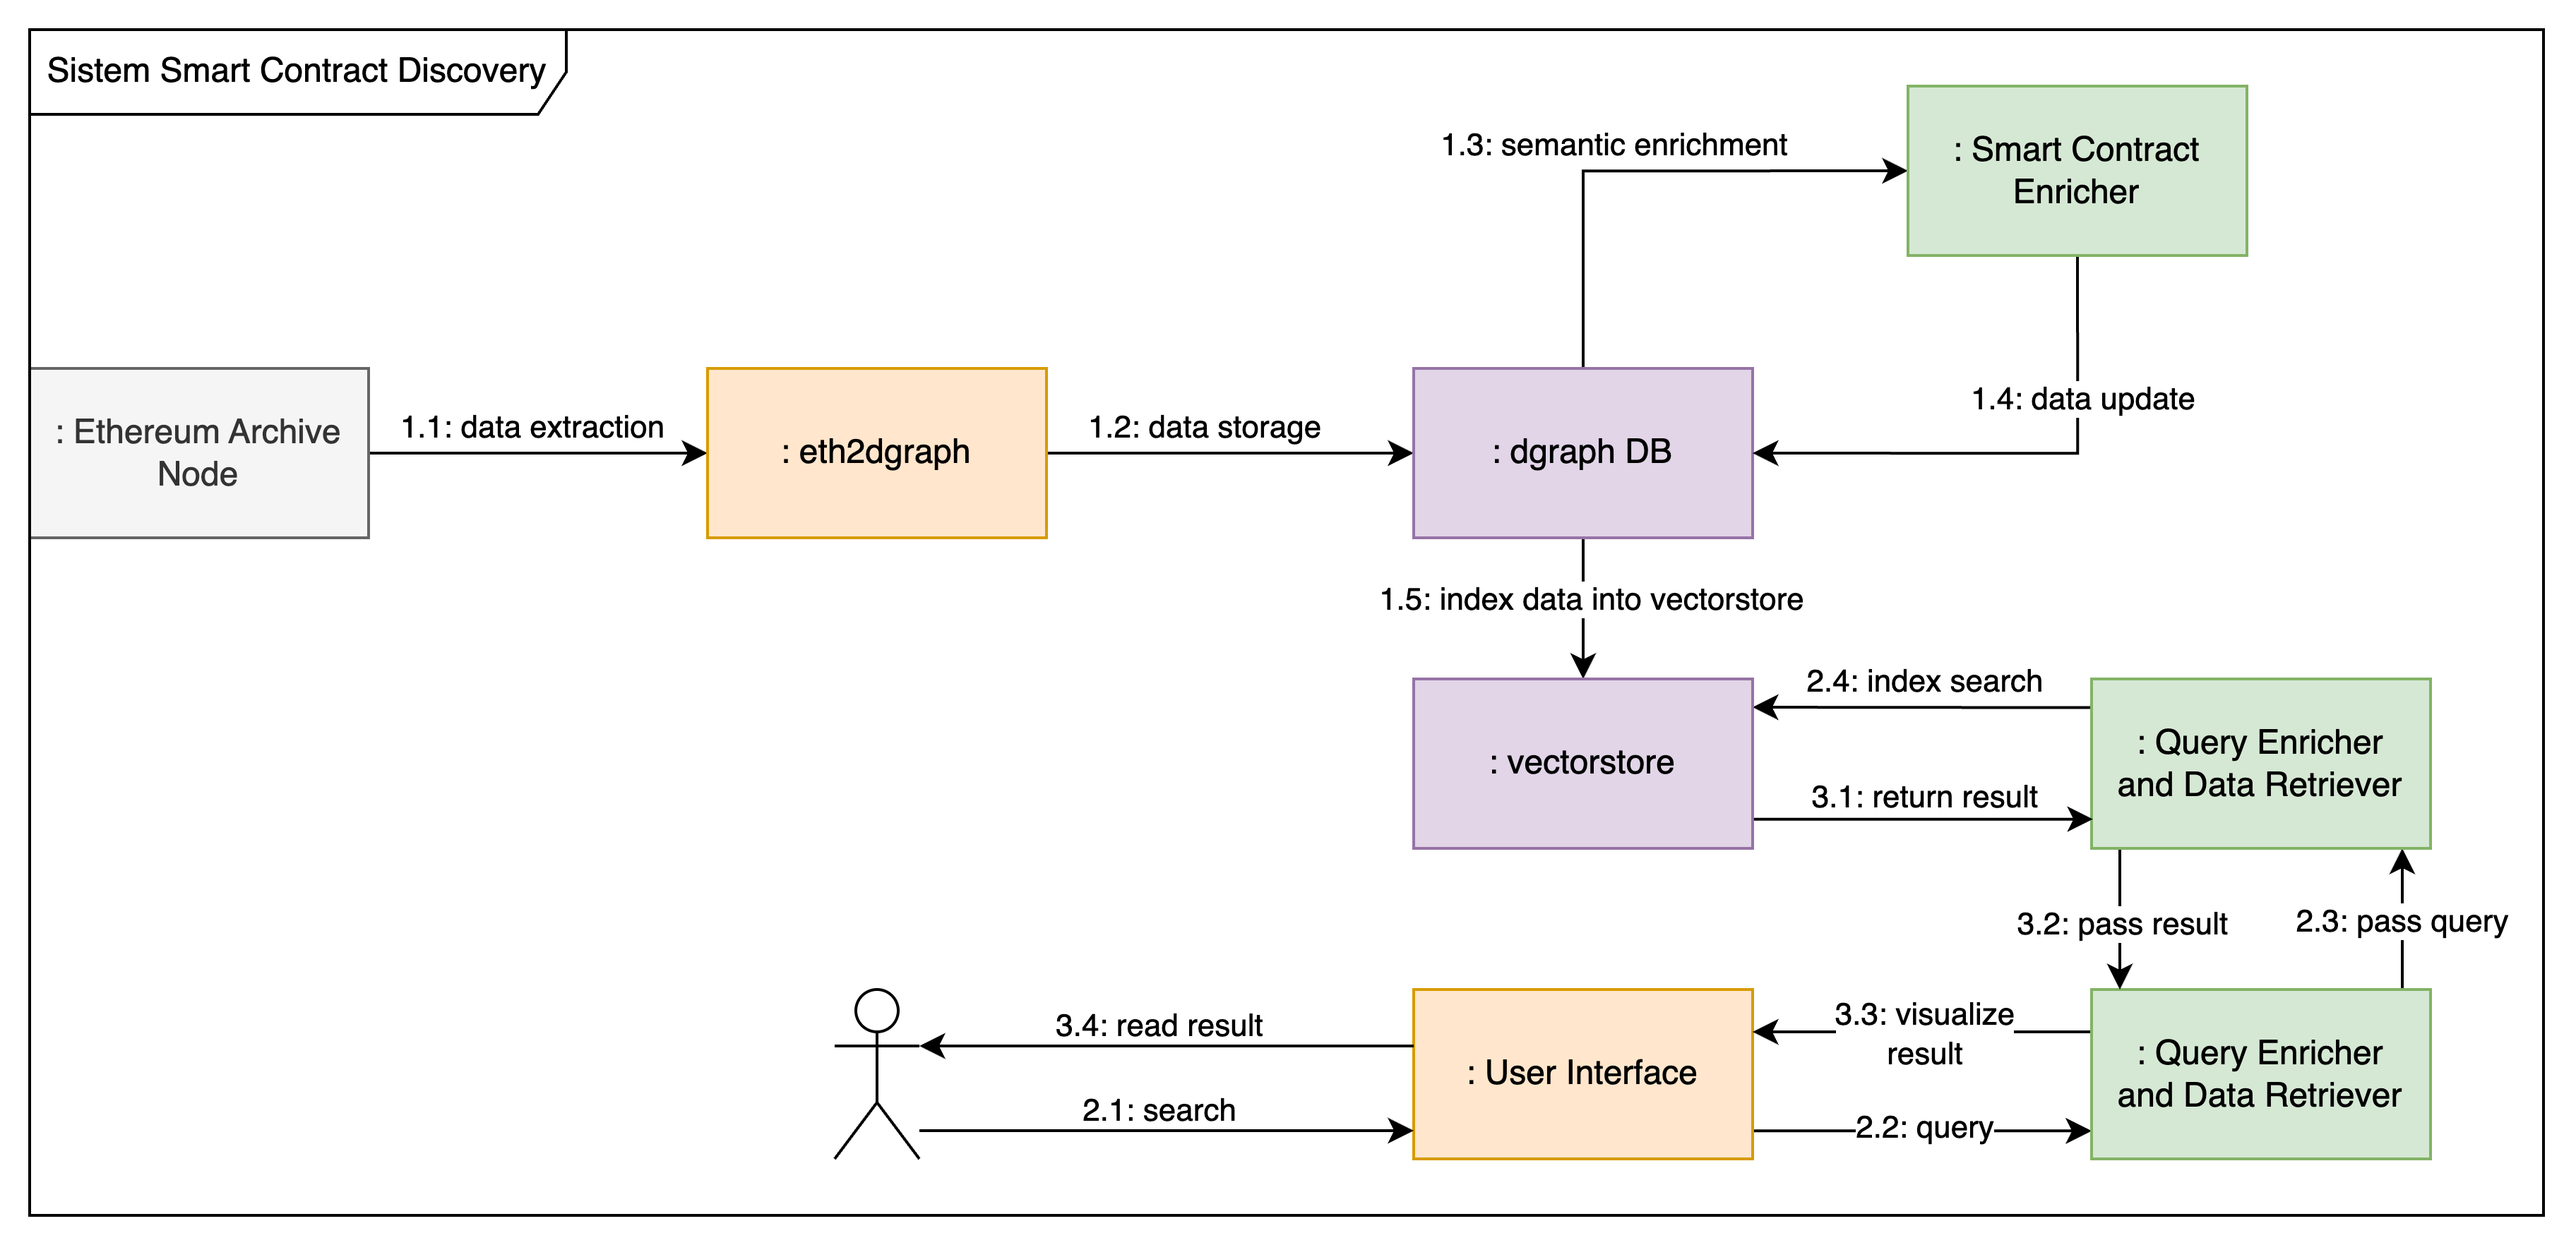
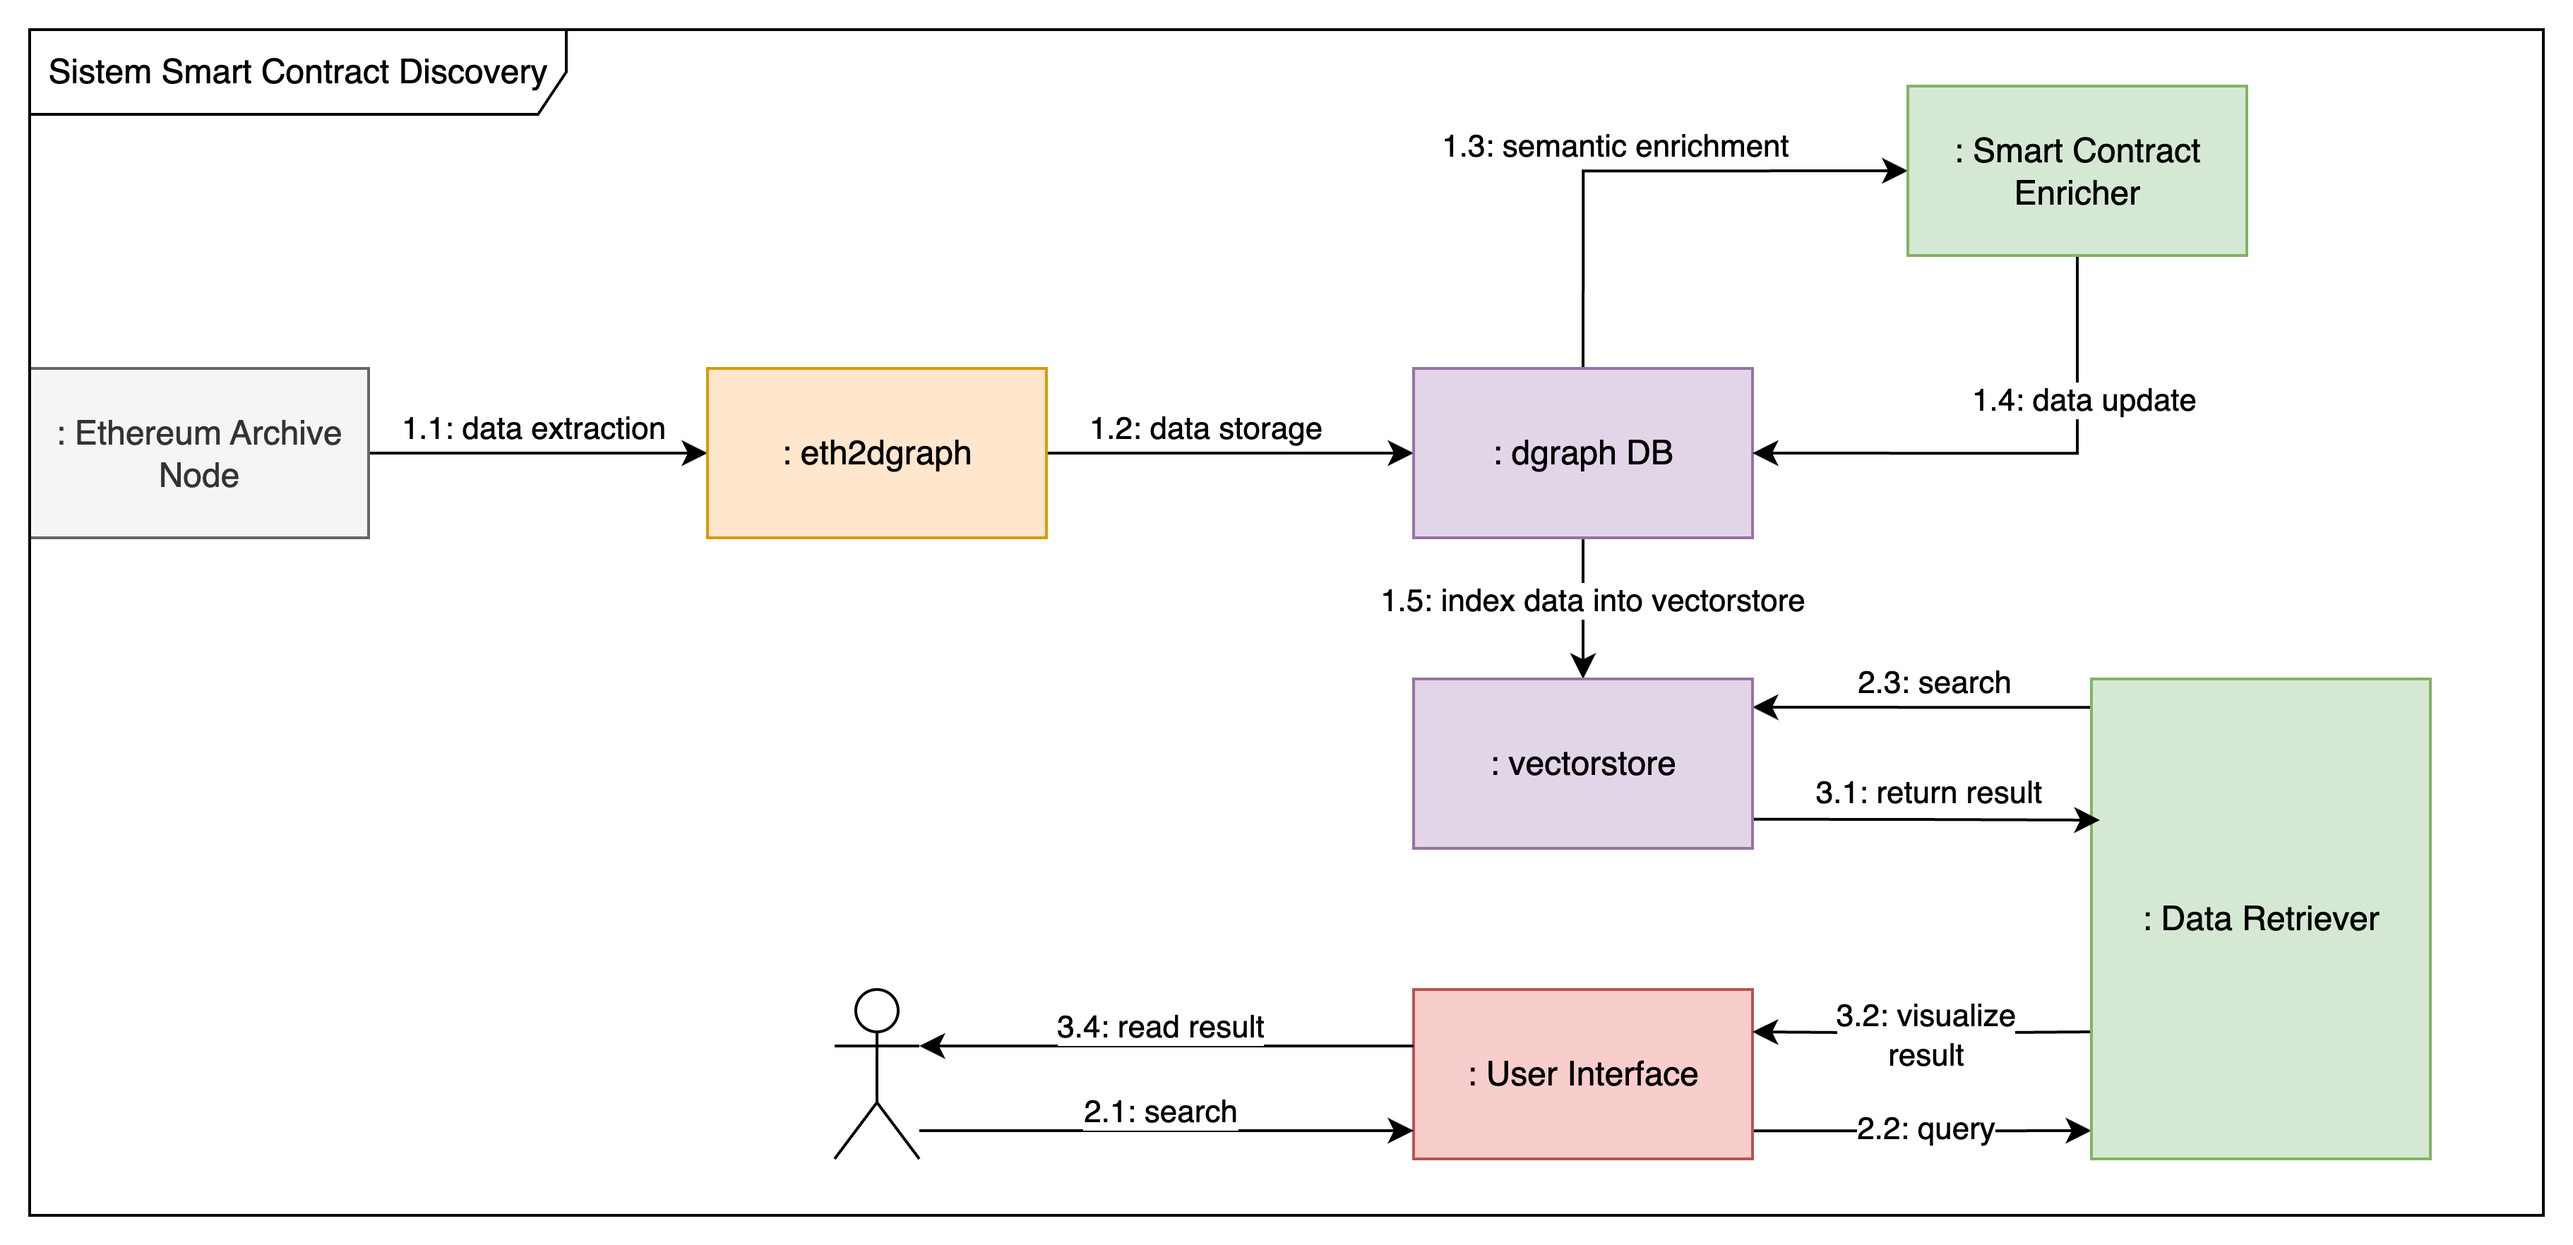
revised (doc): revised inconsistencies and implementation coherence

diff --git a/src/chapters/ta/chapter-3/01-analisis/03-analisis-kebutuhan-sistem.tex b/src/chapters/ta/chapter-3/01-analisis/03-analisis-kebutuhan-sistem.tex
@@ -1,20 +1,19 @@
 \subsection{Analisis Kebutuhan Sistem}
 
 % bingung nulis apa lagi disini
-Pada bagian \ref{subsec:analisis-alternatif-solusi}, telah disimpulkan pilihan alternatif yang akan digunakan dalam membangun sistem. Alternatif-alternatif solusi yang digunakan akan menjadi komponen yang saling berinteraksi dalam sistem Smart Contract Discovery untuk menyediakan fungsionalitas yang terpadu. Pada bagian ini akan diuraikan lebih lanjut mengenai sistem yang akan dibangun sehingga dapat memberikan panduan dalam fase pengembangan sistem. Penjelasan ini mencakup deskripsi sistem, karakteristik pengguna, kebutuhan fungsional dan non-fungsional, serta model use case yang akan digunakan dalam sistem.
+Pada bagian \ref{subsec:analisis-alternatif-solusi}, telah disimpulkan pilihan alternatif yang akan digunakan dalam membangun sistem. Alternatif-alternatif solusi yang digunakan akan menjadi komponen yang saling berinteraksi dalam sistem Smart Contract Discovery untuk menyediakan fungsionalitas yang terpadu. Pada bagian ini akan diuraikan lebih lanjut mengenai sistem yang akan dibangun sehingga dapat memberikan panduan dalam fase pengembangan sistem. Penjelasan ini mencakup deskripsi sistem, karakteristik pengguna, kebutuhan fungsional, serta model use case yang akan digunakan dalam sistem.
 
 \subsubsection{Deskripsi Sistem}
 % penjelasan gambaran umum sistem, komponen utamanya apa aja
 % buat diagram UML gambaran umum
 % Jelaskan tujuan utama sistem (misalnya: "Membangun sistem pencarian smart contract berbasis semantik untuk meningkatkan efisiensi pengembangan dApps").
 
-Solusi yang akan dikembangkan adalah sebuah sistem Smart Contract Discovery yang bertujuan untuk menyediakan \textit{platform} pencarian Smart Contract dalam Blockchain Ethereum berbasis semantik memanfaatkan LLM dan RAG. Sistem akan dibagi menjadi beberapa komponen utama yang saling berinteraksi untuk menyediakan fungsionalitas yang terpadu. Komponen utama sistem dapat dibagi sebagai berikut:
+Solusi yang akan dikembangkan adalah sebuah sistem Smart Contract Discovery yang bertujuan untuk menjadi \textit{platform} pencarian Smart Contract dalam Blockchain Ethereum berbasis semantik. Sistem akan dibagi menjadi beberapa komponen utama yang saling berinteraksi untuk menyediakan fungsionalitas yang terpadu. Komponen utama sistem dapat dibagi sebagai berikut:
 
 \begin{enumerate}
 	\item Komponen Ekstraksi Data (Ethereum Archive Node dan eth2dgraph)
 	\item Komponen Penyimpanan Data (DgraphDB dan Vector Database)
 	\item Komponen \textit{Semantic Enrichment} (Smart Contract Enricher)
-	\item Komponen Pencarian (Query Enricher dan Data Retriever)
 	\item Komponen Antarmuka Pengguna
 \end{enumerate}
 
@@ -34,12 +33,12 @@ Solusi yang akan dikembangkan adalah sebuah sistem Smart Contract Discovery yang
 
 % Ethereum Archive Node → eth2dgraph (ekstraksi) → Dgraph (penyimpanan) → LLM (semantic enrichment) → Dgraph (update) → RAG (query).  
 
-Gambar \ref{image:komponen-sistem} dan gambar \ref{image:layer-arsitektur} menunjukkan gambaran umum alur kerja sistem. Sistem ini akan melakukan ekstraksi data dari Ethereum Archive Node menggunakan \textit{eth2dgraph} dan menyimpannya dalam Dgraph. Setelah itu, sistem akan melakukan \textit{semantic enrichment} menggunakan LLM untuk memperkaya deskripsi dan metadata Smart Contract, lalu memperbarui data di Dgraph. Sebelum data dapat dilakukan query, akan dilakukan indexing data menjadi bentuk vector embeddings dan disimpan di dalam Vector Database. Terakhir, sistem akan menggunakan RAG untuk melakukan pencarian berdasarkan kebutuhan pengguna.
+Gambar \ref{image:komponen-sistem} dan gambar \ref{image:layer-arsitektur} menunjukkan gambaran umum alur kerja sistem. Sistem ini akan melakukan ekstraksi data dari Ethereum Archive Node menggunakan \textit{eth2dgraph} dan menyimpannya dalam Dgraph. Setelah itu, sistem akan melakukan \textit{semantic enrichment} menggunakan LLM untuk memperkaya deskripsi dan metadata Smart Contract, lalu memperbarui data di Dgraph. Sebelum data dapat dilakukan query, akan dilakukan indexing data menjadi bentuk vector embeddings dan disimpan di dalam Vector Database. Terakhir, sistem akan menggunakan \textit{cosine similarity} atau disebut juga \textit{semantic similarity} untuk melakukan pencarian berdasarkan kebutuhan pengguna.
 
 \subsubsection{Proses Semantic Enrichment}
 
-Proses \textit{Semantic Enrichment} yang terdapat pada poin 1.3 pada gambar \ref{image:komponen-sistem} dapat dibagi menjadi empat bagian, yaitu proses penerapan skema sebagai \textit{template} \textit{enrichment} pada data sebelum data diproses, proses pengambilan data dari Dgraph, proses data \textit{enrichment}, yang dibagi menjadi beberapa subproses yang dilakukan oleh Agents, dan proses \textit{update} data ke dalam Dgraph.
-Proses ini akan dilakukan secara berulang-ulang hingga semua data yang ada di Dgraph terproses. Proses ini akan menghasilkan data yang mengandung unsur semantik sehingga dapat digunakan untuk melakukan pencarian berbasis semantik. Setelah proses \textit{enrichment} selesai, data akan disimpan kembali ke dalam Dgraph.
+Proses \textit{Semantic Enrichment} yang terdapat pada poin 1.3 pada gambar \ref{image:komponen-sistem} dapat dibagi menjadi empat bagian, yaitu proses penerapan skema sebagai \textit{template} \textit{enrichment} pada data sebelum data diproses, proses pengambilan data dari Dgraph, proses data \textit{enrichment} menggunakan LLM, dan proses \textit{update} data ke dalam Dgraph.
+Proses ini akan dilakukan secara berulang-ulang hingga semua data yang ada di Dgraph terproses. Proses ini akan menghasilkan deskripsi semantik dari data sehingga dapat digunakan untuk melakukan pencarian berbasis semantik. Setelah proses \textit{enrichment} selesai, data akan disimpan kembali ke dalam Dgraph.
 
 \begin{figure}[ht]
 	\centering

diff --git a/src/chapters/ta/chapter-3/01-analisis/02-06-kesimpulan.tex b/src/chapters/ta/chapter-3/01-analisis/02-06-kesimpulan.tex
@@ -13,6 +13,6 @@ Berdasarkan analisis dari alternatif-alternatif yang dibahas pada bagian \ref{su
 	\item \textbf{Ekstraksi data Smart Contracts dari Blockchain Ethereum}: Alternatif yang dipilih adalah \textit{eth2dgraph} \parencite{aimar2023extraction}, karena memiliki aksesibilitas yang baik, bersifat \textit{open source}, memiliki kecepatan ekstraksi yang tinggi, dan juga menyediakan infrastruktur lengkap sampai pada penyimpanan data dalam format Distributed Graph Database.
 	\item \textbf{Pemodelan, penyimpanan, dan \textit{indexing} data Smart Contracts}: Alternatif yang dipilih adalah \textit{eth2dgraph} \parencite{aimar2023extraction}, karena memiliki kemampuan skalabilitas tinggi dan dapat melakukan query dengan efisien. Selain itu, Dgraph juga memiliki kemampuan untuk melakukan \textit{indexing} data dengan baik.
 	\item \textbf{Klasifikasi fungsional dan semantik Smart Contracts}: Alternatif yang dipilih untuk mekanisme klasifikasi adalah LLM Classification, karena memliki kemampuan kustomisasi yang baik untuk mendeskripsikan dan mengklasifikasi Smart Contracts. Model yang akan digunakan adalah model tekstual, yaitu penjelasan fungsionalitas Smart Contracts dalam bahasa alami, dengan kombinasi dengan konsep ontologi untuk pengklasifikasian.
-	\item \textbf{Pencarian dan rekomendasi Smart Contracts}: Alternatif yang dipilih untuk mekanisme pencarian awal adalah alternatif Vector Embedding Search, karena simplisitas yang ditawarkan dan tidak ada redundansi \textit{layer}. Alternatif yang dapat dikonsiderasikan untuk pengembangan berikutnya, terutama jika dikembangkan sebuah fitur untuk berinteraksi dengan sistem yang lebih kompleks adalah alternatif \textit{Retrieval-Augmented Generation (RAG)}, karena dapat mengakomodasi interaksi yang lebih kompleks. Untuk menambahkan kapabilitas dari Vector Embedding Search, dapat digunakan aspek \textit{enrichment} yang dilakukan terhadap query.
+	\item \textbf{Pencarian dan rekomendasi Smart Contracts}: Alternatif yang dipilih untuk mekanisme pencarian awal adalah alternatif Vector Embedding Search, karena simplisitas yang ditawarkan dan tidak ada redundansi \textit{layer}. Alternatif yang dapat dikonsiderasikan untuk pengembangan berikutnya, terutama jika dikembangkan sebuah fitur untuk berinteraksi dengan sistem yang lebih kompleks adalah alternatif \textit{Retrieval-Augmented Generation (RAG)}, karena dapat mengakomodasi interaksi yang lebih kompleks.
 	\item \textbf{Interaksi pengguna dengan sistem}: Seluruh alternatif yang diajukan, yaitu API dan GUI akan diimplementasikan untuk interaksi pengguna dengan sistem karena dapat memberikan fleksibilitas dan kemudahan bagi pengguna. Sehingga, pengguna dapat melakukan pencarian Smart Contracts dengan cara yang sesuai dengan kebutuhan mereka.
 \end{enumerate}
